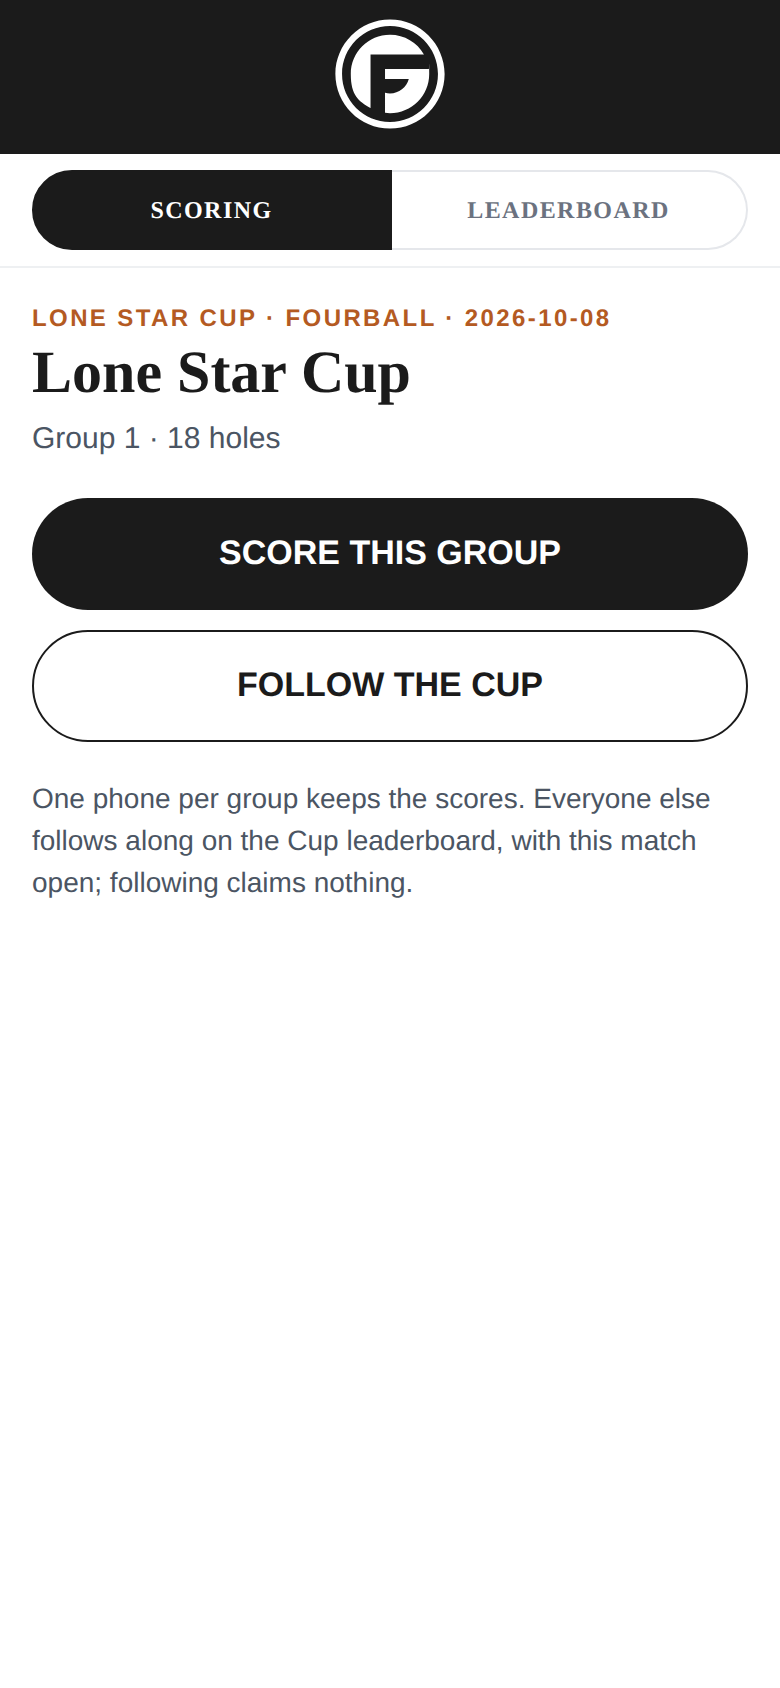
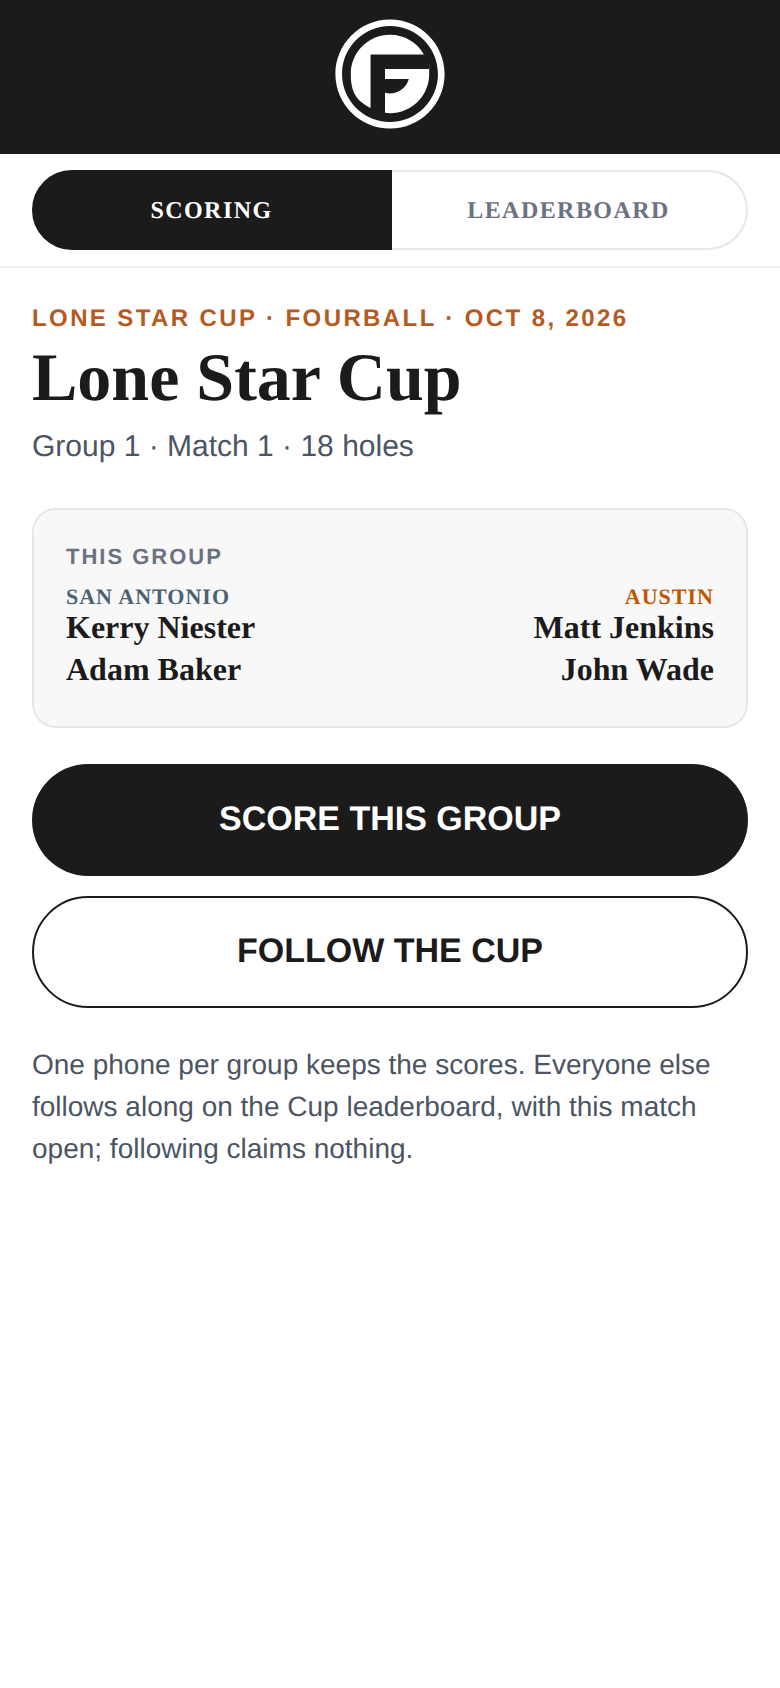
Cup scanned-link screens to the mockups: THIS GROUP box, Who are you? Back, Held saved-so-far
CoS #1398-A, Tracker Build #1406 (QR / Who / Held restyle, Track A's screens).
Landing: THIS GROUP by side, Group · Match · holes, date as Oct 10, 2026.
Who are you?: rule as the sub-line, handicap/take-over copy, Back pill.
Held: how far the card is, no-timeout copy, SAVED SO FAR read-only strip.
Template contract in test_cup_signs; UI suite green; screenshots refreshed.

Claude-Session: https://claude.ai/code/session_01PeGTnLppc6bpJPrSmUWsVP

Changed region(s): [[0.0308, 0.1848, 0.9846, 0.5853], [0.0308, 0.6161, 0.9231, 0.7085], [0.5846, 0.1848, 0.8, 0.2156]]

diff --git a/transaction-tracker/templates/score_entry.html b/transaction-tracker/templates/score_entry.html
@@ -45,6 +45,15 @@
                        font: 700 11px/1 Bitter, Georgia, serif; letter-spacing: 1px; text-transform: uppercase; }
         .pr-hiw-link:hover { background: #D06B2E; }
         .se-pill.dark { border: none; background: #1B1B1B; color: #FFFFFF; }
+        .se-pill.back { height: 50px; font-size: 15px; }
+        /* THIS GROUP on the scanned-link landing (mockup QRLanding): San
+           Antonio slate left, Austin burnt orange right. */
+        .se-this { background: #FFFFFF; }
+        .se-grp { display: flex; justify-content: space-between; gap: 10px; margin-top: 6px; }
+        .se-grp .r { text-align: right; }
+        .se-grp .t { font: 700 11px Bitter, Georgia, serif; text-transform: uppercase; letter-spacing: .5px; }
+        .se-grp .t.aus { color: #BF5700; } .se-grp .t.sa { color: #4B6274; }
+        .se-grp .nm { font: 600 16px Bitter, Georgia, serif; line-height: 1.3; }
         .se-pill.line { border: 1px solid #1B1B1B; background: transparent; color: #1B1B1B; }
         .se-pill:disabled { opacity: .45; }
         .se-name-btn { height: 60px; border-radius: 12px; border: 1px solid #E5E7EB; background: #F8F8F8;
@@ -749,45 +758,75 @@
             const cup = cupIds.length > 0;
             const follow = cup ? "/member/lonestarcup?match=" + encodeURIComponent(cupIds[0])
                                : "/member/score/board?t=" + encodeURIComponent(T);
-            const when = [card.group_num != null ? "Group " + card.group_num : null, card.label,
+            // Mockup QRLanding: "Group 2 · Match 2 · 18 holes", then a THIS
+            // GROUP box, San Antonio left and Austin right in the Cup, one
+            // list otherwise.
+            const when = [card.group_num != null ? "Group " + card.group_num : null, matchNos() || card.label,
                           card.holes === 9 ? "Nine holes" : "18 holes"].filter(Boolean).join(" · ");
             const held = card.lock.state === "held"
-                ? `<div class="se-status">${ICON.check}<span>${esc(first(card.lock.holder_name || "Someone"))} is already keeping score for this group.</span></div><div class="se-gap"></div>`
+                ? `<div class="se-status">${ICON.check}<span>${esc(first(card.lock.holder_name || "Someone"))} is already keeping score for this group.</span></div>`
                 : "";
-            return `<div class="se-eyebrow">${esc([card.round_label, card.round_date].filter(Boolean).join(" · "))}</div>
-                <h1 class="se-h1">${cup ? "Lone Star Cup" : "Live scoring"}</h1><div class="se-sub">${esc(when)}</div>
-                <div class="se-gap"></div>${held}
+            const names = (ps) => ps.map((p) => esc(p.display_name)).join("<br>");
+            const sideOf = (p) => ((card.matches || {})[String(p.customer_id)] || {}).side;
+            const sa = card.players.filter((p) => sideOf(p) === "sa"), aus = card.players.filter((p) => sideOf(p) === "austin");
+            const group = cup && (sa.length || aus.length)
+                ? `<div class="se-grp"><div><div class="t sa">San Antonio</div><div class="nm">${names(sa)}</div></div>
+                     <div class="r"><div class="t aus">Austin</div><div class="nm">${names(aus)}</div></div></div>`
+                : `<div class="se-grp"><div class="nm">${names(card.players)}</div></div>`;
+            // "Oct 10, 2026", not the ISO date (mockup QRLanding).
+            const dt = (d) => { const m = String(d || "").match(/^(\d{4})-(\d{2})-(\d{2})$/);
+                return m ? new Date(+m[1], +m[2] - 1, +m[3]).toLocaleDateString("en-US", {month: "short", day: "numeric", year: "numeric"}) : d; };
+            return `<div class="se-eyebrow">${esc([card.round_label, dt(card.round_date)].filter(Boolean).join(" · "))}</div>
+                <h1 class="se-h1 big">${cup ? "Lone Star Cup" : "Live scoring"}</h1><div class="se-sub">${esc(when)}</div>
+                <div class="se-gap"></div>
+                <div class="se-box se-this"><div class="se-lbl">This group</div>${group}</div>
+                ${held}<div class="se-gap"></div>
                 <div class="se-stack">
                   <button type="button" class="se-pill dark" data-act="gate-score">SCORE THIS GROUP</button>
                   <button type="button" class="se-pill line" data-act="gate-follow" data-href="${esc(follow)}">${cup ? "FOLLOW THE CUP" : "FOLLOW THE LEADERBOARD"}</button>
                 </div><div class="se-gap"></div>
-                <div class="se-copy">One phone per group keeps the scores${card.lock.state === "held" ? " (take over only if " + esc(first(card.lock.holder_name || "the scorer")) + " can't keep going)" : ""}. Everyone else follows along${cup ? " on the Cup leaderboard, with this match open" : " on the leaderboard"}; following claims nothing.</div>`;
+                <div class="se-copy">One phone per group keeps the scores. Everyone else follows along${cup ? " on the Cup leaderboard, with this match open" : " on the leaderboard"}; following claims nothing.${card.lock.state === "held" ? " Take over only if " + esc(first(card.lock.holder_name || "the scorer")) + " can't keep going." : ""}</div>`;
         }
+        // Mockups WhoAreYou / Held: "Sat AM Fourball · Group 2".
+        const eyebrowGroup = () => [card.round_label, card.group_num != null ? "Group " + card.group_num : null].filter(Boolean).join(" · ");
 
         function joinScreen() {
             const btns = card.players.map((p) =>
                 `<button type="button" class="se-name-btn" data-act="pick" data-cid="${p.customer_id}">
                     <span>${esc(p.display_name)}</span><span class="m">${p.playing_handicap != null ? "PH " + p.playing_handicap : ""}</span>
                  </button>`).join("");
-            const when = [card.group_num != null ? "Group " + card.group_num : null, card.label,
-                          card.holes === 9 ? "Nine holes" : "18 holes"].filter(Boolean).join(" · ");
-            return `<div class="se-eyebrow">${esc([card.round_label, card.round_date].filter(Boolean).join(" · "))}</div>
-                <h1 class="se-h1">Who are you?</h1><div class="se-sub">${esc(when)}</div>
+            // Mockup WhoAreYou: the rule as the sub-line, the copy under the
+            // names, and Back to the two-button landing.
+            return `<div class="se-eyebrow">${esc(eyebrowGroup())}</div>
+                <h1 class="se-h1 big">Who are you?</h1><div class="se-sub">The first person to start keeps score for the group.</div>
                 <div class="se-gap"></div><div class="se-stack">${btns}</div><div class="se-gap"></div>
-                <div class="se-copy">The first person to start keeps score for the group. Everyone else follows along live and signs their card at the end.</div>`;
+                <div class="se-copy">Tap your name to keep the card. Your playing handicap is the locked one from the starter sheet. If someone already has the card you'll be asked before you take it over.</div>
+                <div class="se-gap"></div><button type="button" class="se-pill line back" data-act="gate-back">Back</button>`;
         }
 
         function heldScreen() {
+            // Mockup Held: how far the holder's card is, the two choices, the
+            // no-timeout promise, and SAVED SO FAR (read-only cells; the
+            // holder's phone owns the card).
             const nm = card.lock.holder_name || "Someone";
-            return `<div class="se-eyebrow">${esc(eyebrow())}</div>
-                <h1 class="se-h1">${esc(first(nm))} is keeping score.</h1>
-                <div class="se-sub">One phone enters the group's scores, so nothing is entered twice.</div>
+            const order = holeOrder();
+            const done = order.filter((n) => holeDone(n));
+            const thru = done.length ? done[done.length - 1] : null;
+            const cells = order.map((n) => holeDone(n)
+                ? `<div class="se-cell saved"><span class="n">${n}</span><span class="k">&#10003;</span></div>`
+                : `<div class="se-cell"><span class="n">${n}</span></div>`).join("");
+            return `<div class="se-eyebrow">${esc(eyebrowGroup())}</div>
+                <h1 class="se-h1 big">${esc(first(nm))} is keeping score.</h1>
+                <div class="se-sub">${thru != null ? "The group's card is through hole " + thru + "." : "No holes saved yet."}</div>
                 <div class="se-gap"></div>
                 <div class="se-stack">
                   <button type="button" class="se-pill line" data-act="follow">Follow along</button>
                   <button type="button" class="se-pill dark" data-act="takeover">Take over</button>
                 </div><div class="se-gap"></div>
-                <div class="se-copy">Take over only if ${esc(first(nm))} can't keep going. This phone becomes the scorecard and ${esc(first(nm))}'s phone switches to follow along.</div>`;
+                <div class="se-copy">Take over only if ${esc(first(nm))} can't keep going. The saved holes stay; you pick up from the next one. There's no timeout and nothing happens by itself.</div>
+                <div class="se-gap"></div>
+                <div class="se-box"><div class="se-lbl">Saved so far</div>
+                  <div class="se-strip" style="margin-top:8px;grid-template-columns:repeat(${Math.min(order.length, 9)}, minmax(0, 1fr))">${cells}</div></div>`;
         }
 
         function holeScreen() {
@@ -1551,6 +1590,7 @@
                 return;
             }
             if (act === "gate-score") { store.set(K.gate, true); render(); return; }
+            if (act === "gate-back") { store.set(K.gate, false); render(); return; }
             if (act === "gate-follow") { location.href = b.dataset.href; return; }
             if (act === "pick") { who = Number(b.dataset.cid); store.set(K.who, who); claim(false); return; }
             if (act === "follow") { following = true; store.set(K.follow, true); render(); return; }

diff --git a/transaction-tracker/static/js/version.js b/transaction-tracker/static/js/version.js
@@ -6,6 +6,7 @@ window.TGF_CHANGELOG = [
     title: "Cup hole screens: name + tee + PH rows, session Team Score box, HOW IT WORKS pill",
     changes: [
       "Kerry 10/7 (CoS #1398-C, the rules of the page): no redundancy on a scoring screen. Player rows now carry name + tee + PH only; the \"vs Name\" line and the pair row's \"Team · one ball\" prose are gone (\"It's already obvious who I'm playing because of the above matches\"). A TEAM SCORE box under the rows carries the label and the two numbers, this SESSION's points (Austin, San Antonio), read from the Cup board's own per-match rollup (cup_standings.session_*), so the phone and the board cannot disagree; the strip above keeps the overall. Session titles in Kerry's words: FOURBALL · FOURSOMES · SINGLES (#1397-1), \"Chapman\" only ever describes the format.",
+      "The scanned-link screens follow the mockups QRLanding / WhoAreYou / Held (CoS #1398-A, Tracker Build's #1406 table: 'QR / Who / Held restyle, Track A's screens'): the landing adds a THIS GROUP box (San Antonio left, Austin right in the Cup; one list on a plain event), 'Group 1 · Match 1 · 18 holes' and the date as Oct 10, 2026; Who are you? carries the rule as its sub-line, the handicap/take-over copy under the names and a Back pill to the two buttons (data-act gate-back clears K.gate); Held says how far the card is ('The group's card is through hole 7.'), promises no timeout, and shows SAVED SO FAR as read-only cells. Screenshots docs/claude/screenshots/lsc-preview/00-landing-held, 01-who, 02-held.",
       "HOW IT WORKS stays one tap from the scoring screen (#1398-C2): the orange pill under the group card opens Event Info's section for this session's format (/member/lonestarcup/info#fourball|foursomes|singles). Cup rounds only. Guards: test_cup_signs.py (template contract), test_score_entry_ui.py (123 checks; the old 'vs' expectation is replaced by the rule). Screenshots: docs/claude/screenshots/lsc-preview/."
     ]
   },

diff --git a/transaction-tracker/test_cup_signs.py b/transaction-tracker/test_cup_signs.py
@@ -116,6 +116,10 @@ check("the hole screen carries the Team score · hole box (label + two numbers) 
       and "/member/lonestarcup/info#" in tpl and "Team PH " in tpl)
 check("player rows carry name + tee + PH only: no 'vs' and no 'Team · one ball' on the hole screen",
       'replace(/^Match vs/, "vs")' not in tpl and "s.team ? s.meta : null" not in tpl)
+check("the landing carries THIS GROUP by side, Who are you? carries Back, Held carries SAVED SO FAR (mockups QRLanding / WhoAreYou / Held)",
+      'class="se-box se-this"' in tpl and 'data-act="gate-back"' in tpl and "Saved so far" in tpl
+      and "There's no timeout and nothing happens by itself." in tpl
+      and "Tap your name to keep the card." in tpl)
 check("session titles are FOURBALL / FOURSOMES / SINGLES (#1397-1)",
       '"FOURBALL"' in tpl and '"FOURSOMES"' in tpl and '"SINGLES"' in tpl)
 cts = open("templates/contests.html", encoding="utf-8").read()

diff --git a/transaction-tracker/docs/claude/score-entry.md b/transaction-tracker/docs/claude/score-entry.md
@@ -277,8 +277,20 @@ picking a name CLAIMED the group, so a spectator's scan made him the scorer.
   `/events/<id>/cup-signs` (`templates/cup_signs.html`, two per Letter page,
   `?round_id=` narrows). The pairings-based print pack cannot carry three
   sessions' codes, which is why this reads the rounds directly.
-- Guards: `test_cup_signs.py`; `test_score_entry_ui.py` clicks the gate
-  before every name and checks the held note and the follow target.
+- **To the mockups (v2.525.21, `docs/claude/lsc-mockups/` QRLanding /
+  WhoAreYou / Held, CoS #1398-A):** the landing carries a THIS GROUP box
+  (`.se-this`/`.se-grp`: San Antonio left, Austin right by `card.matches[cid]
+  .side`; one list on a plain event), "Group N · Match M · 18 holes" and the
+  date as "Oct 10, 2026". **Who are you?** reads "The first person to start
+  keeps score for the group." as its sub-line, the handicap / take-over copy
+  under the names, and a **Back** pill (`data-act="gate-back"` clears
+  `K.gate`). **Held** says how far the holder's card is ("The group's card is
+  through hole 7." / "No holes saved yet."), the no-timeout promise, and a
+  SAVED SO FAR strip of read-only `.se-cell` divs (the holder's phone owns
+  the card; nothing here navigates).
+- Guards: `test_cup_signs.py` (template contract incl. the three screens);
+  `test_score_entry_ui.py` clicks the gate before every name and checks the
+  held note and the follow target.
 - **Four-ball TEAM BALL line (v2.525.20, Kerry #1351 D2):** under the four
   rows on a four-ball hole, `teamBallLine(hole)` shows each side's best net
   ball on this hole from the gross scores as they go in (draft or saved);
